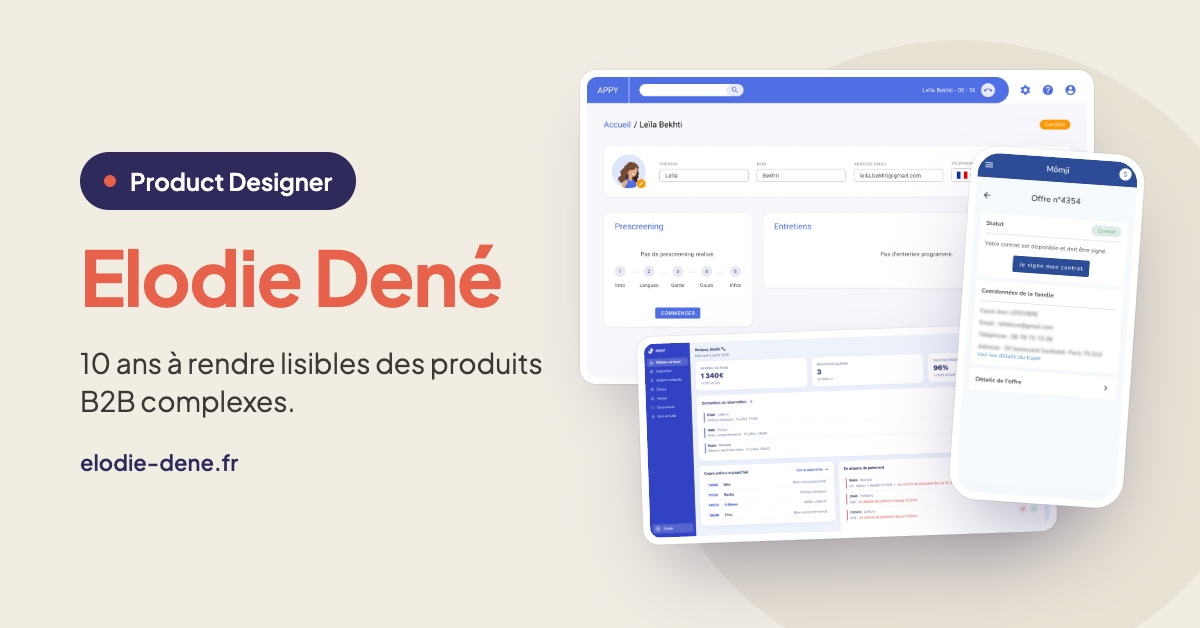
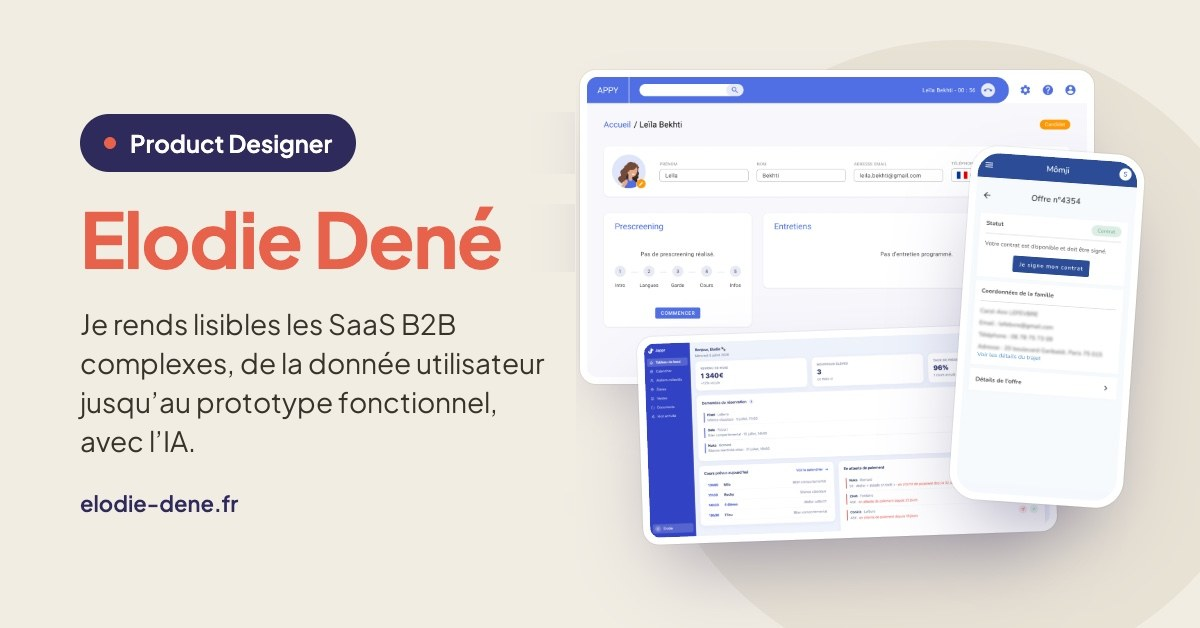
Image de partage mise à jour avec la nouvelle accroche

Changed region(s): [[0.0617, 0.1815, 0.4625, 0.7564], [0.0617, 0.7866, 0.2158, 0.8169]]

diff --git a/index.html b/index.html
@@ -13,7 +13,7 @@
         <meta property="og:image" content="https://elodie-dene.fr/images/partage.jpg">
         <meta property="og:image:width" content="1200">
         <meta property="og:image:height" content="628">
-        <meta property="og:image:alt" content="Elodie Dené, Product Designer : 10 ans à rendre lisibles des produits B2B complexes">
+        <meta property="og:image:alt" content="Elodie Dené, Product Designer : je rends lisibles les SaaS B2B complexes, de la donnée utilisateur jusqu’au prototype fonctionnel, avec l’IA">
         <meta name="twitter:card" content="summary_large_image">
         <link rel="preconnect" href="https://fonts.googleapis.com" />
         <link rel="preconnect" href="https://fonts.gstatic.com" crossorigin />

diff --git a/about.html b/about.html
@@ -13,7 +13,7 @@
     <meta property="og:image" content="https://elodie-dene.fr/images/partage.jpg">
     <meta property="og:image:width" content="1200">
     <meta property="og:image:height" content="628">
-    <meta property="og:image:alt" content="Elodie Dené, Product Designer : 10 ans à rendre lisibles des produits B2B complexes">
+    <meta property="og:image:alt" content="Elodie Dené, Product Designer : je rends lisibles les SaaS B2B complexes, de la donnée utilisateur jusqu’au prototype fonctionnel, avec l’IA">
     <meta name="twitter:card" content="summary_large_image">
     <link rel="preconnect" href="https://fonts.googleapis.com">
     <link rel="preconnect" href="https://fonts.gstatic.com" crossorigin>
